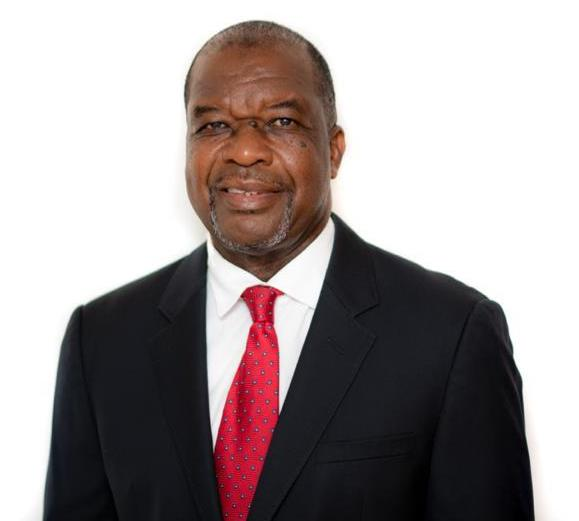
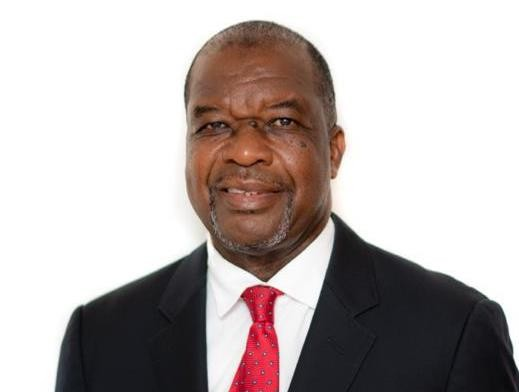
Headsize

diff --git a/convention-2026.html b/convention-2026.html
@@ -136,32 +136,23 @@
     color: var(--white); line-height: 1.3;
   }
 
-  /* ── BILLBOARD / FLYER ── */
+  /* ── BILLBOARD / FLYER (edge-to-edge full-width hero) ── */
   .conv26-billboard {
-    background: var(--offwhite);
-    padding: 72px 48px;
+    background: var(--black);
+    padding: 0;
   }
   .conv26-billboard-inner {
-    max-width: 1100px; margin: 0 auto;
+    max-width: none; margin: 0;
     text-align: center;
   }
-  .conv26-billboard-label {
-    font-size: 11px; font-weight: 500;
-    letter-spacing: 0.14em; text-transform: uppercase;
-    color: var(--green); margin-bottom: 8px;
-  }
-  .conv26-billboard h2 {
-    font-family: var(--font-serif);
-    font-size: 32px; font-weight: 400;
-    color: var(--black); margin-bottom: 28px;
-  }
   .conv26-billboard-img {
-    border-radius: 8px;
+    width: 100%;
     overflow: hidden;
-    box-shadow: 0 12px 40px rgba(0,0,0,0.18);
-    border: 1px solid var(--border);
   }
-  .conv26-billboard-img img { width: 100%; height: auto; display: block; }
+  .conv26-billboard-img img {
+    width: 100%; height: auto;
+    display: block;
+  }
 
   /* ── ABOUT THE THEME ── */
   .conv26-theme-section {
@@ -292,8 +283,7 @@
     .conv26-theme { font-size: 18px; }
     .conv26-facts { padding: 0 24px 48px; }
     .conv26-facts-grid { grid-template-columns: 1fr; gap: 12px; }
-    .conv26-billboard { padding: 56px 24px; }
-    .conv26-billboard h2 { font-size: 26px; }
+    .conv26-billboard { padding: 0; }
     .conv26-theme-section { padding: 56px 24px; }
     .conv26-theme-section h2 { font-size: 28px; }
     .conv26-cta { padding: 44px 24px; }
@@ -314,7 +304,7 @@
     .conv26-hero h1 { font-size: 30px; }
     .conv26-theme { font-size: 16px; }
     .conv26-facts { padding: 0 16px 36px; }
-    .conv26-billboard { padding: 40px 16px; }
+    .conv26-billboard { padding: 0; }
     .conv26-theme-section { padding: 40px 16px; }
     .conv26-cta { padding: 36px 16px; }
     .footer-top { grid-template-columns: 1fr; gap: 24px; }

diff --git a/index.html b/index.html
@@ -722,7 +722,8 @@
     <h2>The <em>Voice</em> of Jamaica's Employers</h2>
     <p>Representing over 300 corporate members through advocacy, industrial relations, training, and workplace solutions that strengthen Jamaica's business environment.</p>
     <div class="hero-btns">
-      <a href="about.html" class="btn-primary">About Us</a>
+      <a href="convention-2026.html" class="btn-primary">Convention 2026</a>
+      <a href="about.html" class="btn-ghost">About Us →</a>
       <a href="executive-council.html" class="btn-ghost">Meet the Executive Council →</a>
     </div>
   </div>

diff --git a/executive-council.html b/executive-council.html
@@ -515,7 +515,7 @@
           <div class="governance-card-content">
             <div class="governance-name">Gregory Reid</div> 
             <div class="governance-title">Council Member</div>
-            <div class="governance-company">Attorney at Law</div>
+            <div class="governance-company">Employment Law Specialist</div>
           </div>
         </div>
 
